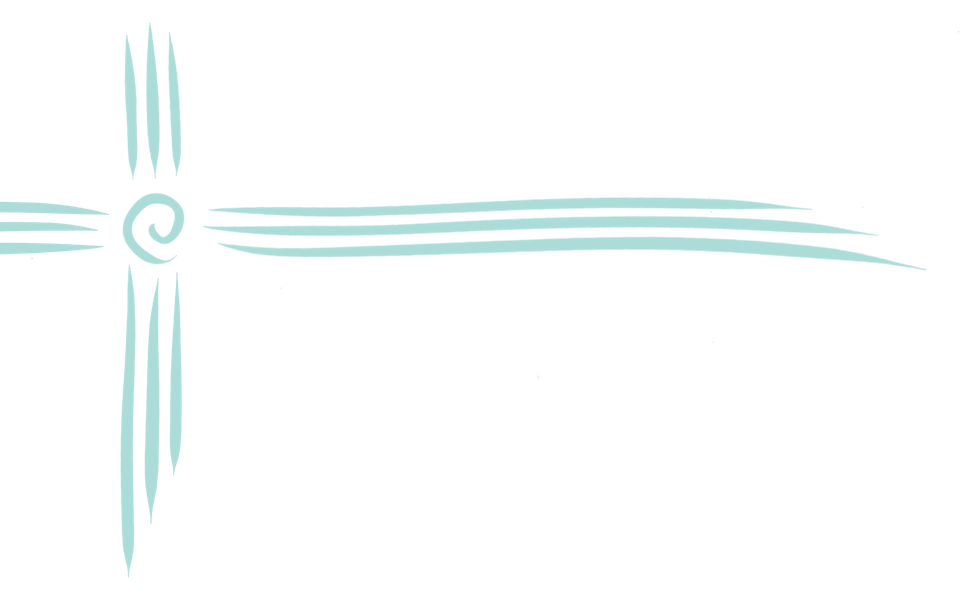
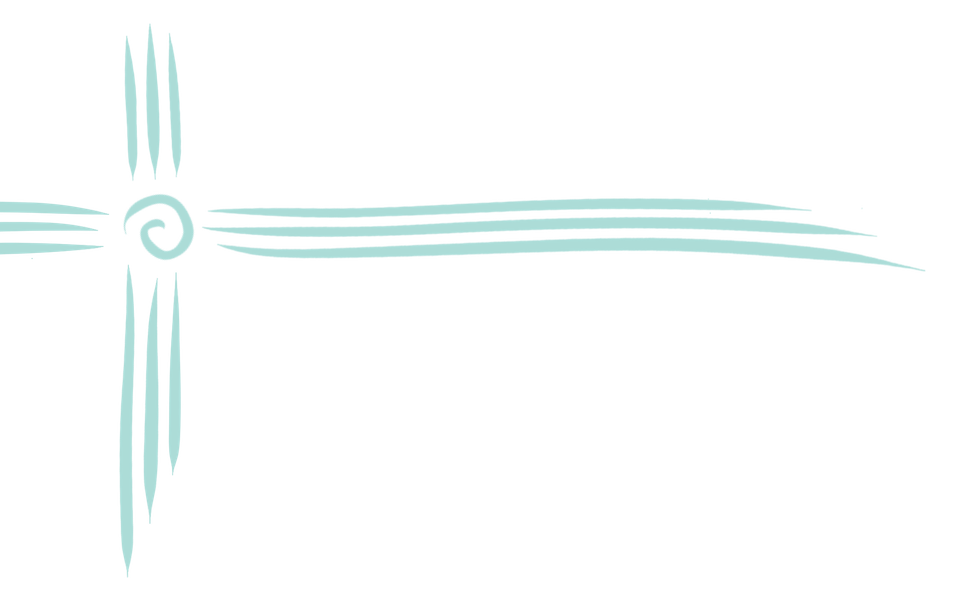
Background tweaks

Changed region(s): [[0.125, 0.33, 0.9062, 0.87], [0.875, 0.42, 0.9688, 0.45]]

diff --git a/sass/partials/_page.scss b/sass/partials/_page.scss
@@ -53,7 +53,7 @@ a {
     min-height: 600px;
     @include box-shadow();
 
-    background: #FFF url(../images/bg2.png) no-repeat;
+    background: #FFF url(../images/bg.png) no-repeat;
     header {
         position: relative;
         font-family: "Averia Libre";
